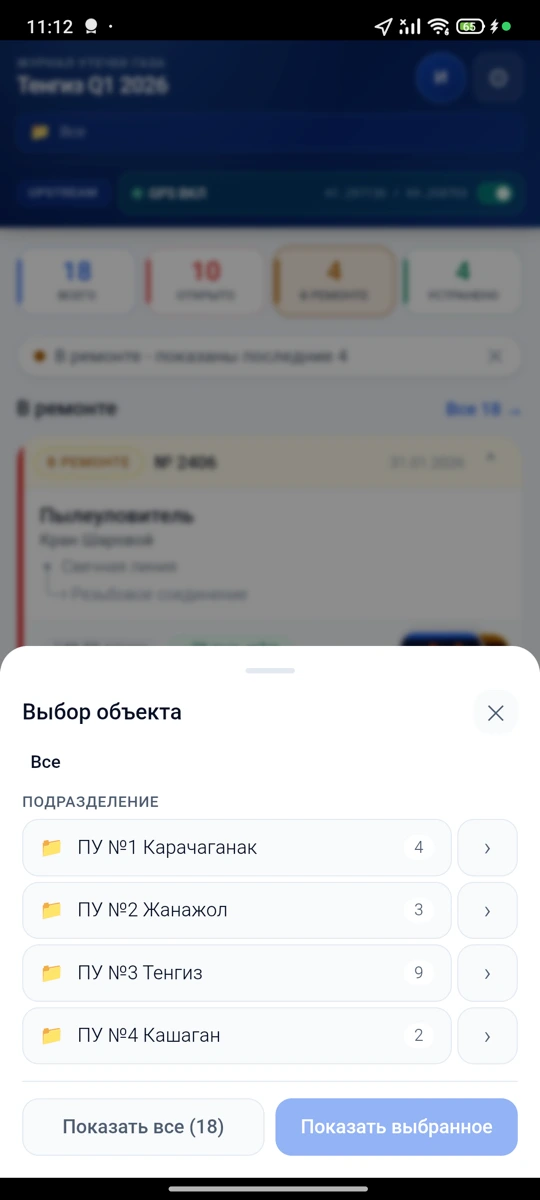
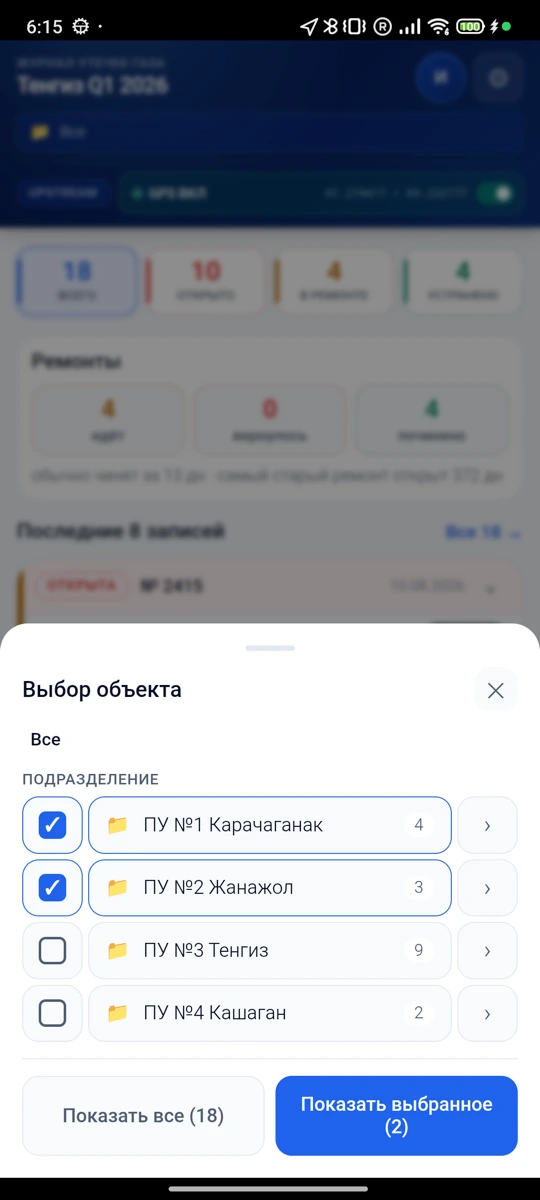
docs(manual): мультивыбор объекта в Android-мануале
Новый снимок выбора объекта с двумя отмеченными папками и абзац о том,
как выбрать несколько объектов одного уровня. Скрипт съёмки ставит
отметки перед снимком, как и веб-версия.

diff --git a/docs/manual/android/manual.html b/docs/manual/android/manual.html
@@ -655,7 +655,7 @@
       <div class="shots two">
         <figure>
           <img src="img/19-location-scope.webp" alt="Выбор объекта" />
-          <figcaption>Навигация по локациям как по папкам</figcaption>
+          <figcaption>Папки как в проводнике, можно отметить несколько</figcaption>
         </figure>
         <figure>
           <img src="img/20-database.webp" alt="База данных" />
@@ -670,6 +670,12 @@
         действует <strong>на все экраны сразу</strong>: базу, карту, мониторинг,
         статистику на главной и счётчик на кнопке «База». Кнопка «Показать все»
         возвращает весь проект.
+      </p>
+      <p>
+        Чтобы выбрать <strong>несколько объектов</strong> одного уровня,
+        отметьте их чекбоксами слева и нажмите «Показать выбранное (N)». Пока
+        что-то отмечено, тап по строке тоже ставит или снимает отметку; переход
+        в другую папку отметки сбрасывает.
       </p>
       <div class="note">
         <span class="label">Область — это видимость, а не хранение</span>
